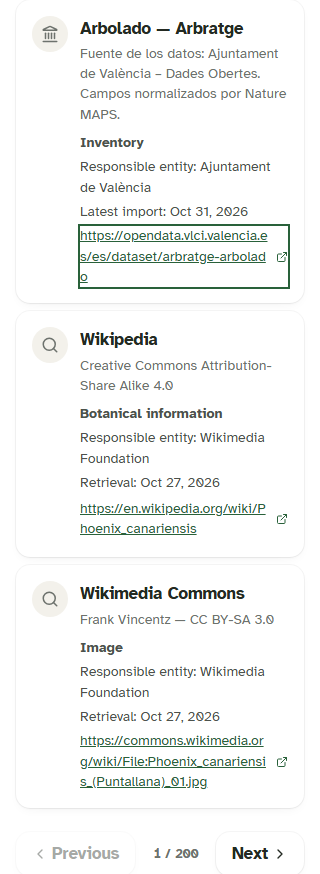
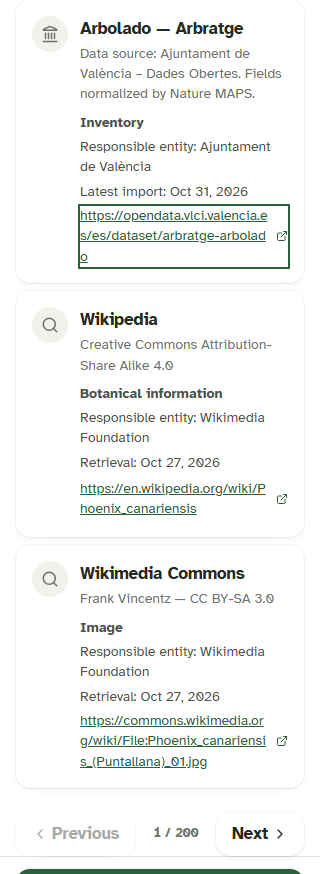
fix: translate municipal source attribution in plant profiles

diff --git a/src/components/SourceMetadata/SourceMetadata.tsx b/src/components/SourceMetadata/SourceMetadata.tsx
@@ -6,6 +6,24 @@ import en from './locales/en.json';
 
 const dictionaries = { es, va, en };
 
+export interface SourceDescriptionProps {
+  description: string;
+  provenance?: SourceReference;
+}
+
+/** Translate the application's municipal template, retaining other providers' credits verbatim. */
+export function SourceDescription({ description, provenance }: SourceDescriptionProps) {
+  const { lang } = useApp();
+  const provider = 'Ajuntament de València';
+  const isMunicipalTemplate = provenance?.scope === 'inventory'
+    && provenance.provider === provider
+    && description === es.inventoryAttribution.replace('{provider}', provider);
+  const text = isMunicipalTemplate
+    ? dictionaries[lang].inventoryAttribution.replace('{provider}', provider)
+    : description;
+  return text ? <p className="mt-0.5 text-small break-words text-muted">{text}</p> : null;
+}
+
 export interface SourceMetadataProps {
   /** Absent for sources returned by a backend predating UT 924. */
   source?: SourceReference;

diff --git a/src/pages/FichaPlanta/FichaPlantaPage.tsx b/src/pages/FichaPlanta/FichaPlantaPage.tsx
@@ -15,7 +15,7 @@ import {
   Trees,
 } from 'lucide-react';
 import { useApp } from '../../context/useApp';
-import { SourceMetadata } from '../../components/SourceMetadata';
+import { SourceMetadata, SourceDescription } from '../../components/SourceMetadata';
 import { IDENTIFICATION_NOTICE } from './constants';
 import type { FichaEspecie, FichaFuente, IdentificacionFicha } from './types';
 
@@ -65,9 +65,7 @@ function SourceCard({ source }: SourceCardProps) {
         </span>
         <div className="min-w-0 flex-1">
           <p className="text-body font-semibold text-ink">{source.name}</p>
-          {source.description && (
-            <p className="mt-0.5 text-small break-words text-muted">{source.description}</p>
-          )}
+          <SourceDescription description={source.description} provenance={source.provenance} />
           <SourceMetadata source={source.provenance} />
           {source.url && (
             <a

diff --git a/src/components/SourceMetadata/index.ts b/src/components/SourceMetadata/index.ts
@@ -1,2 +1,2 @@
-export { SourceMetadata } from './SourceMetadata';
-export type { SourceMetadataProps } from './SourceMetadata';
+export { SourceMetadata, SourceDescription } from './SourceMetadata';
+export type { SourceMetadataProps, SourceDescriptionProps } from './SourceMetadata';

diff --git a/docs/fuentes-informacion-ut-924.md b/docs/fuentes-informacion-ut-924.md
@@ -75,3 +75,5 @@ npm.cmd run dev
 В API для Phoenix canariensis найдены одновременно повреждённое `Palmera CanÃ ria` и корректное `Palmera Canària`. Карточка теперь выбирает читаемый вариант среди доступных названий; если таких нет, показывает научное название. Данные в базе не изменялись.
 
 Подпись фотографии поднята выше края белой панели, чтобы автор и лицензия оставались видны целиком. Для повторной ручной проверки обновите `/ficha` на валенсийском: должно быть `Palmera Canària`, а подпись фото не должна закрываться панелью. Автоматическая проверка этого исправления: build, lint, 198 тестов и браузер с реальным API на ширине 320/402 px. Скриншоты: `evidencias/ut-924/photo-va-320.png` и `photo-va-402.png`.
+
+Шаблонная муниципальная подпись теперь тоже переводится: на английском начинается с `Data source`, на валенсийском — с `Font de les dades`, на испанском — с `Fuente de los datos`. Название `Ajuntament de València – Dades Obertes` сохраняется. Остальные оригинальные тексты и авторские кредиты источников отображаются как получены от API.

diff --git a/docs/pr-ut-924.md b/docs/pr-ut-924.md
@@ -8,6 +8,8 @@ Validación: build, lint y 198 tests del frontend; build y 23 tests del backend 
 
 Tras revisar la ficha, se evita que el panel tape los créditos de la foto y se elige un nombre legible cuando el inventario devuelve también duplicados con codificación dañada (Canària). Verificado con API real a 320/402 px, sin modificar la base de datos.
 
+La frase de atribución municipal de Nature MAPS también se traduce a es/va/en; se conservan el nombre de la entidad y los créditos originales de otros contenidos.
+
 Las ramas UT 921, 932, 933 y 924 se han combinado en los 24 órdenes posibles sin conflictos y con el mismo árbol final. Esta comprobación corresponde a los commits registrados en `docs/evidencias/ut-924/integration.json`; cambios posteriores en main u otras PR requieren revisarla.
 
 La combinación de las cuatro tareas también pasa build, lint y 222 tests.
